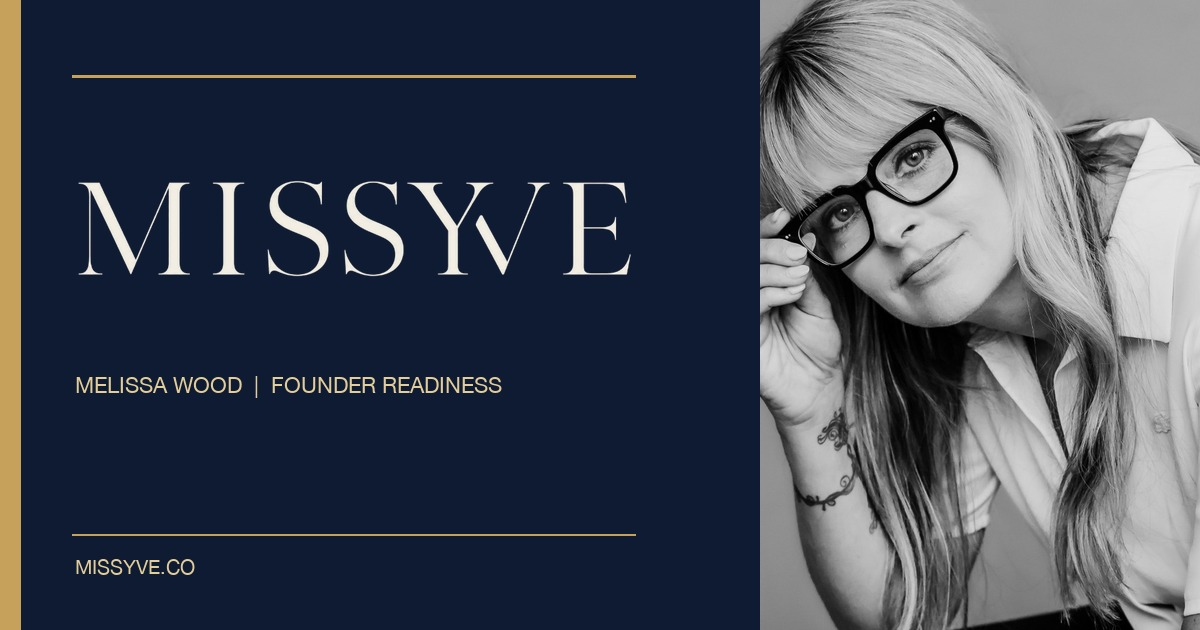
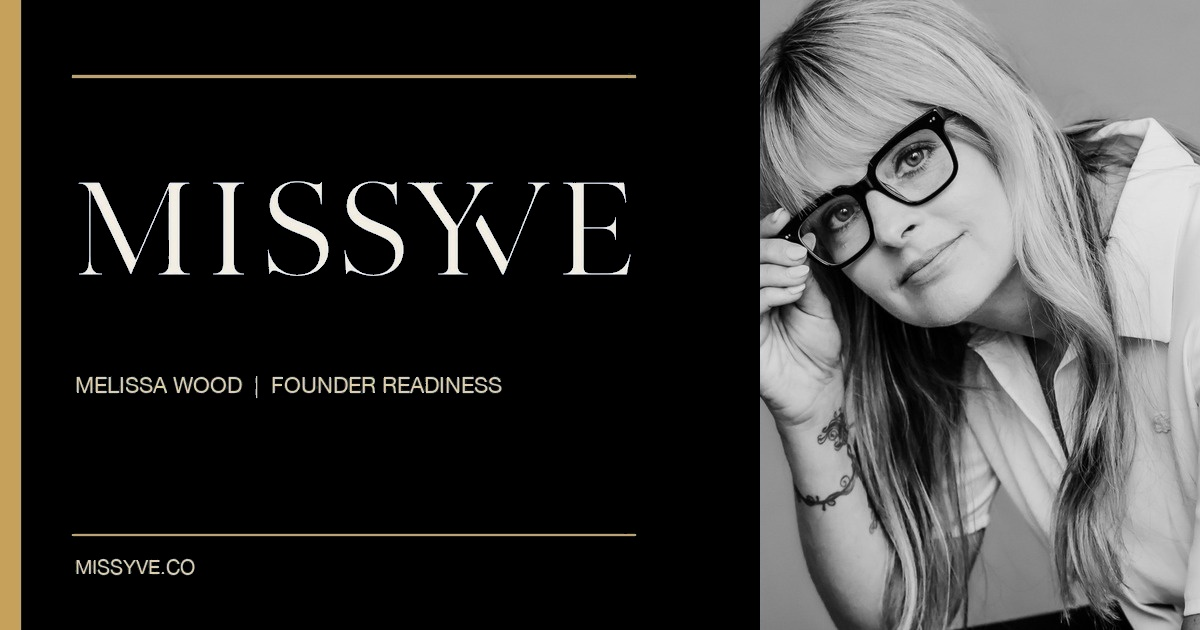
Use black backgrounds throughout site

diff --git a/founder-readiness.js b/founder-readiness.js
@@ -146,10 +146,10 @@
   function installStyles() {
     const style = document.createElement("style");
     style.textContent = `
-      .fr-overlay{position:fixed;inset:0;height:100vh;height:100dvh;z-index:10000;display:grid;place-items:center;padding:20px;background:rgba(3,8,16,.84);backdrop-filter:blur(8px)}
+      .fr-overlay{position:fixed;inset:0;height:100vh;height:100dvh;z-index:10000;display:grid;place-items:center;padding:20px;background:rgba(0,0,0,.84);backdrop-filter:blur(8px)}
       .fr-overlay[hidden]{display:none}
-      .fr-panel{position:relative;width:min(760px,100%);max-height:min(900px,calc(100vh - 40px));max-height:min(900px,calc(100dvh - 40px));overflow:auto;background:#0F1B33;color:#F5F0E3;border:1px solid rgba(198,161,91,.42);border-radius:10px;box-shadow:0 24px 80px rgba(0,0,0,.5)}
-      .fr-top{position:sticky;top:0;z-index:1;display:flex;align-items:center;justify-content:space-between;gap:18px;padding:18px 24px;background:rgba(15,27,51,.96);border-bottom:1px solid rgba(198,161,91,.22)}
+      .fr-panel{position:relative;width:min(760px,100%);max-height:min(900px,calc(100vh - 40px));max-height:min(900px,calc(100dvh - 40px));overflow:auto;background:#000;color:#F5F0E3;border:1px solid rgba(198,161,91,.42);border-radius:10px;box-shadow:0 24px 80px rgba(0,0,0,.5)}
+      .fr-top{position:sticky;top:0;z-index:1;display:flex;align-items:center;justify-content:space-between;gap:18px;padding:18px 24px;background:rgba(0,0,0,.96);border-bottom:1px solid rgba(198,161,91,.22)}
       .fr-brand{margin:0;color:#E3CD9A;font-size:10px;font-weight:600;letter-spacing:.14em;text-transform:uppercase}
       .fr-close{width:36px;height:36px;border:1px solid rgba(198,161,91,.35);border-radius:50%;background:transparent;color:#F5F0E3;font-size:21px;line-height:1;cursor:pointer}
       .fr-close:hover,.fr-close:focus-visible{color:#E3CD9A;border-color:#C6A15B}
@@ -163,7 +163,7 @@
       .fr-code{min-width:0;flex:1;padding:13px 14px;border:1px solid rgba(198,161,91,.38);border-radius:6px;background:rgba(255,255,255,.04);color:#F5F0E3;font:inherit;font-size:16px}
       .fr-code::placeholder{color:#B9B2A0}
       .fr-error{min-height:1.4em;margin:10px 0 0;color:#E3CD9A;font-size:12px;text-align:left}
-      .fr-button{border:1px solid #C6A15B;border-radius:6px;padding:12px 18px;background:#C6A15B;color:#0A1220;font:inherit;font-size:13px;font-weight:700;cursor:pointer;transition:background .2s ease,border-color .2s ease}
+      .fr-button{border:1px solid #C6A15B;border-radius:6px;padding:12px 18px;background:#C6A15B;color:#000;font:inherit;font-size:13px;font-weight:700;cursor:pointer;transition:background .2s ease,border-color .2s ease}
       .fr-button:hover:not(:disabled){background:#E3CD9A;border-color:#E3CD9A}
       .fr-button:disabled{border-color:rgba(198,161,91,.18);background:rgba(198,161,91,.13);color:#B9B2A0;cursor:not-allowed}
       .fr-progress-label{display:flex;justify-content:space-between;gap:12px;margin-bottom:8px;color:#B9B2A0;font-size:12px}
@@ -178,7 +178,7 @@
       .fr-module p{margin:0;color:#B9B2A0;font-size:13px;line-height:1.65}
       .fr-question{margin:12px 0;padding:20px;border:1px solid rgba(198,161,91,.18);border-radius:8px;background:rgba(255,255,255,.025)}
       .fr-question-title{display:flex;gap:12px;align-items:flex-start;margin:0 0 18px;color:#F5F0E3;font-size:14px;font-weight:500;line-height:1.6}
-      .fr-number{display:grid;flex:0 0 24px;place-items:center;width:24px;height:24px;border-radius:50%;background:#C6A15B;color:#0A1220;font-size:12px;font-weight:700}
+      .fr-number{display:grid;flex:0 0 24px;place-items:center;width:24px;height:24px;border-radius:50%;background:#C6A15B;color:#000;font-size:12px;font-weight:700}
       .fr-options{display:grid;grid-template-columns:repeat(5,minmax(0,1fr));gap:8px}
       .fr-choice{min-height:68px;padding:8px 5px;border:1px solid rgba(198,161,91,.25);border-radius:6px;background:rgba(255,255,255,.025);color:#B9B2A0;font:inherit;font-size:10px;line-height:1.35;cursor:pointer}
       .fr-choice:hover{border-color:#C6A15B;color:#F5F0E3}

diff --git a/index.html b/index.html
@@ -15,17 +15,20 @@
         y=l.getElementsByTagName(r)[0];y.parentNode.insertBefore(t,y);
     })(window, document, "clarity", "script", "y9ou5ujxv2");
 </script>
-  <script defer src="founder-readiness.js?v=18"></script>
+  <script defer src="founder-readiness.js?v=19"></script>
   <script defer src="contact.js?v=2"></script>
   <script defer src="workshop.js?v=16"></script>
   <meta name="description" content="Meet Melissa (Missy) Wood, Founder of Curaite and creator of the Venture Validation Framework, and explore resources for aspiring founders.">
-  <script defer src="about.js?v=25"></script>
+  <script defer src="about.js?v=26"></script>
   <meta property="og:title" content="MissyVe | Melissa Wood and Founder Readiness">
   <meta property="og:description" content="Meet Melissa (Missy) Wood, Founder of Curaite and creator of the Venture Validation Framework, and explore resources for aspiring founders.">
   <meta property="og:image" content="https://missyve.co/images/preview-home.jpg">
   <meta property="og:url" content="https://missyve.co/">
   <meta name="twitter:card" content="summary_large_image">
   <style>
+    :root{--navy-900:#000;--navy-800:#000}
+    .modal-overlay{background:rgba(0,0,0,.72)}
+    .portfolio-links .mark--dark{background:#000}
     .page .badge, .page .logo, .page .divider, .page .headline,
     .page .cta, .page .social, .page .portfolio,
     .page .fr-home-break, .page .fr-footer{opacity:1;animation:none}

diff --git a/about.js b/about.js
@@ -46,7 +46,7 @@
       .portfolio-links{flex-wrap:wrap}
       .portfolio-links .mark{width:64px;height:64px}
       .speaking-dialog{width:calc(100% - 32px);max-width:520px;max-height:calc(100dvh - 32px);padding:36px 32px 30px;border:1px solid var(--line);border-radius:10px;background:var(--navy-800);color:var(--cream-100);box-shadow:0 24px 60px rgba(0,0,0,.45)}
-      .speaking-dialog::backdrop{background:rgba(6,10,18,.72)}
+      .speaking-dialog::backdrop{background:rgba(0,0,0,.72)}
       .speaking-dialog .field select{width:100%;padding:10px 12px;border:1px solid var(--line);border-radius:6px;background:var(--navy-800);color:var(--cream-100);font:inherit;font-size:16px}
       .speaking-dialog .field input,.speaking-dialog .field textarea{font-size:16px}
       .speaking-dialog :focus-visible{outline:2px solid var(--gold-300);outline-offset:3px}
